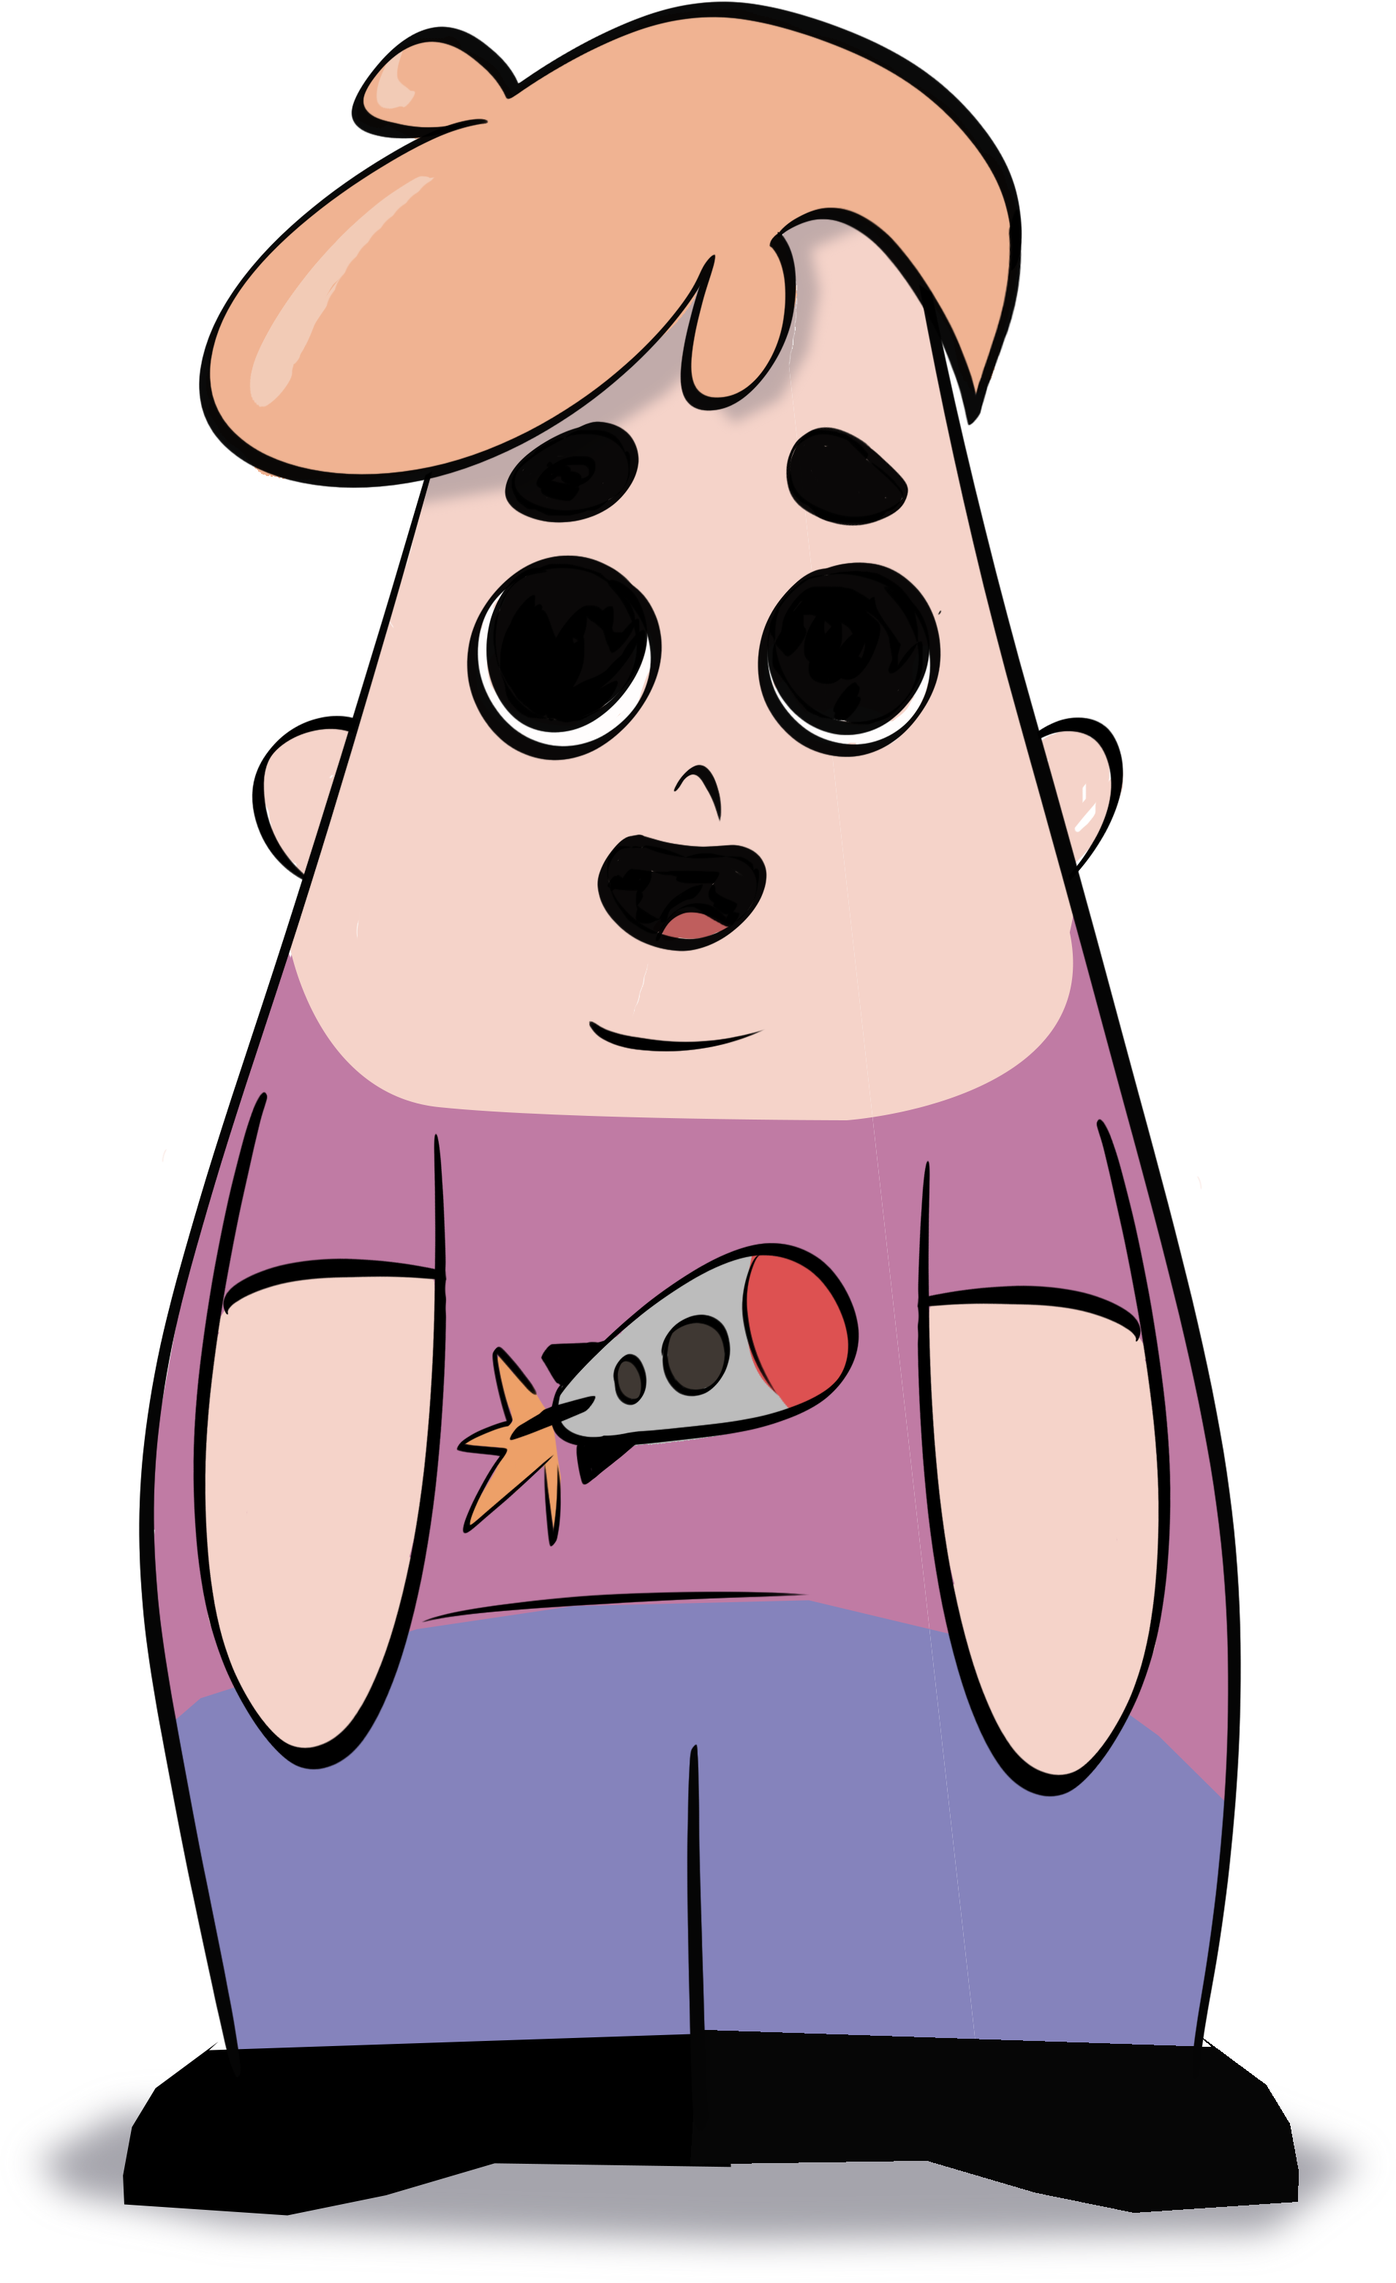
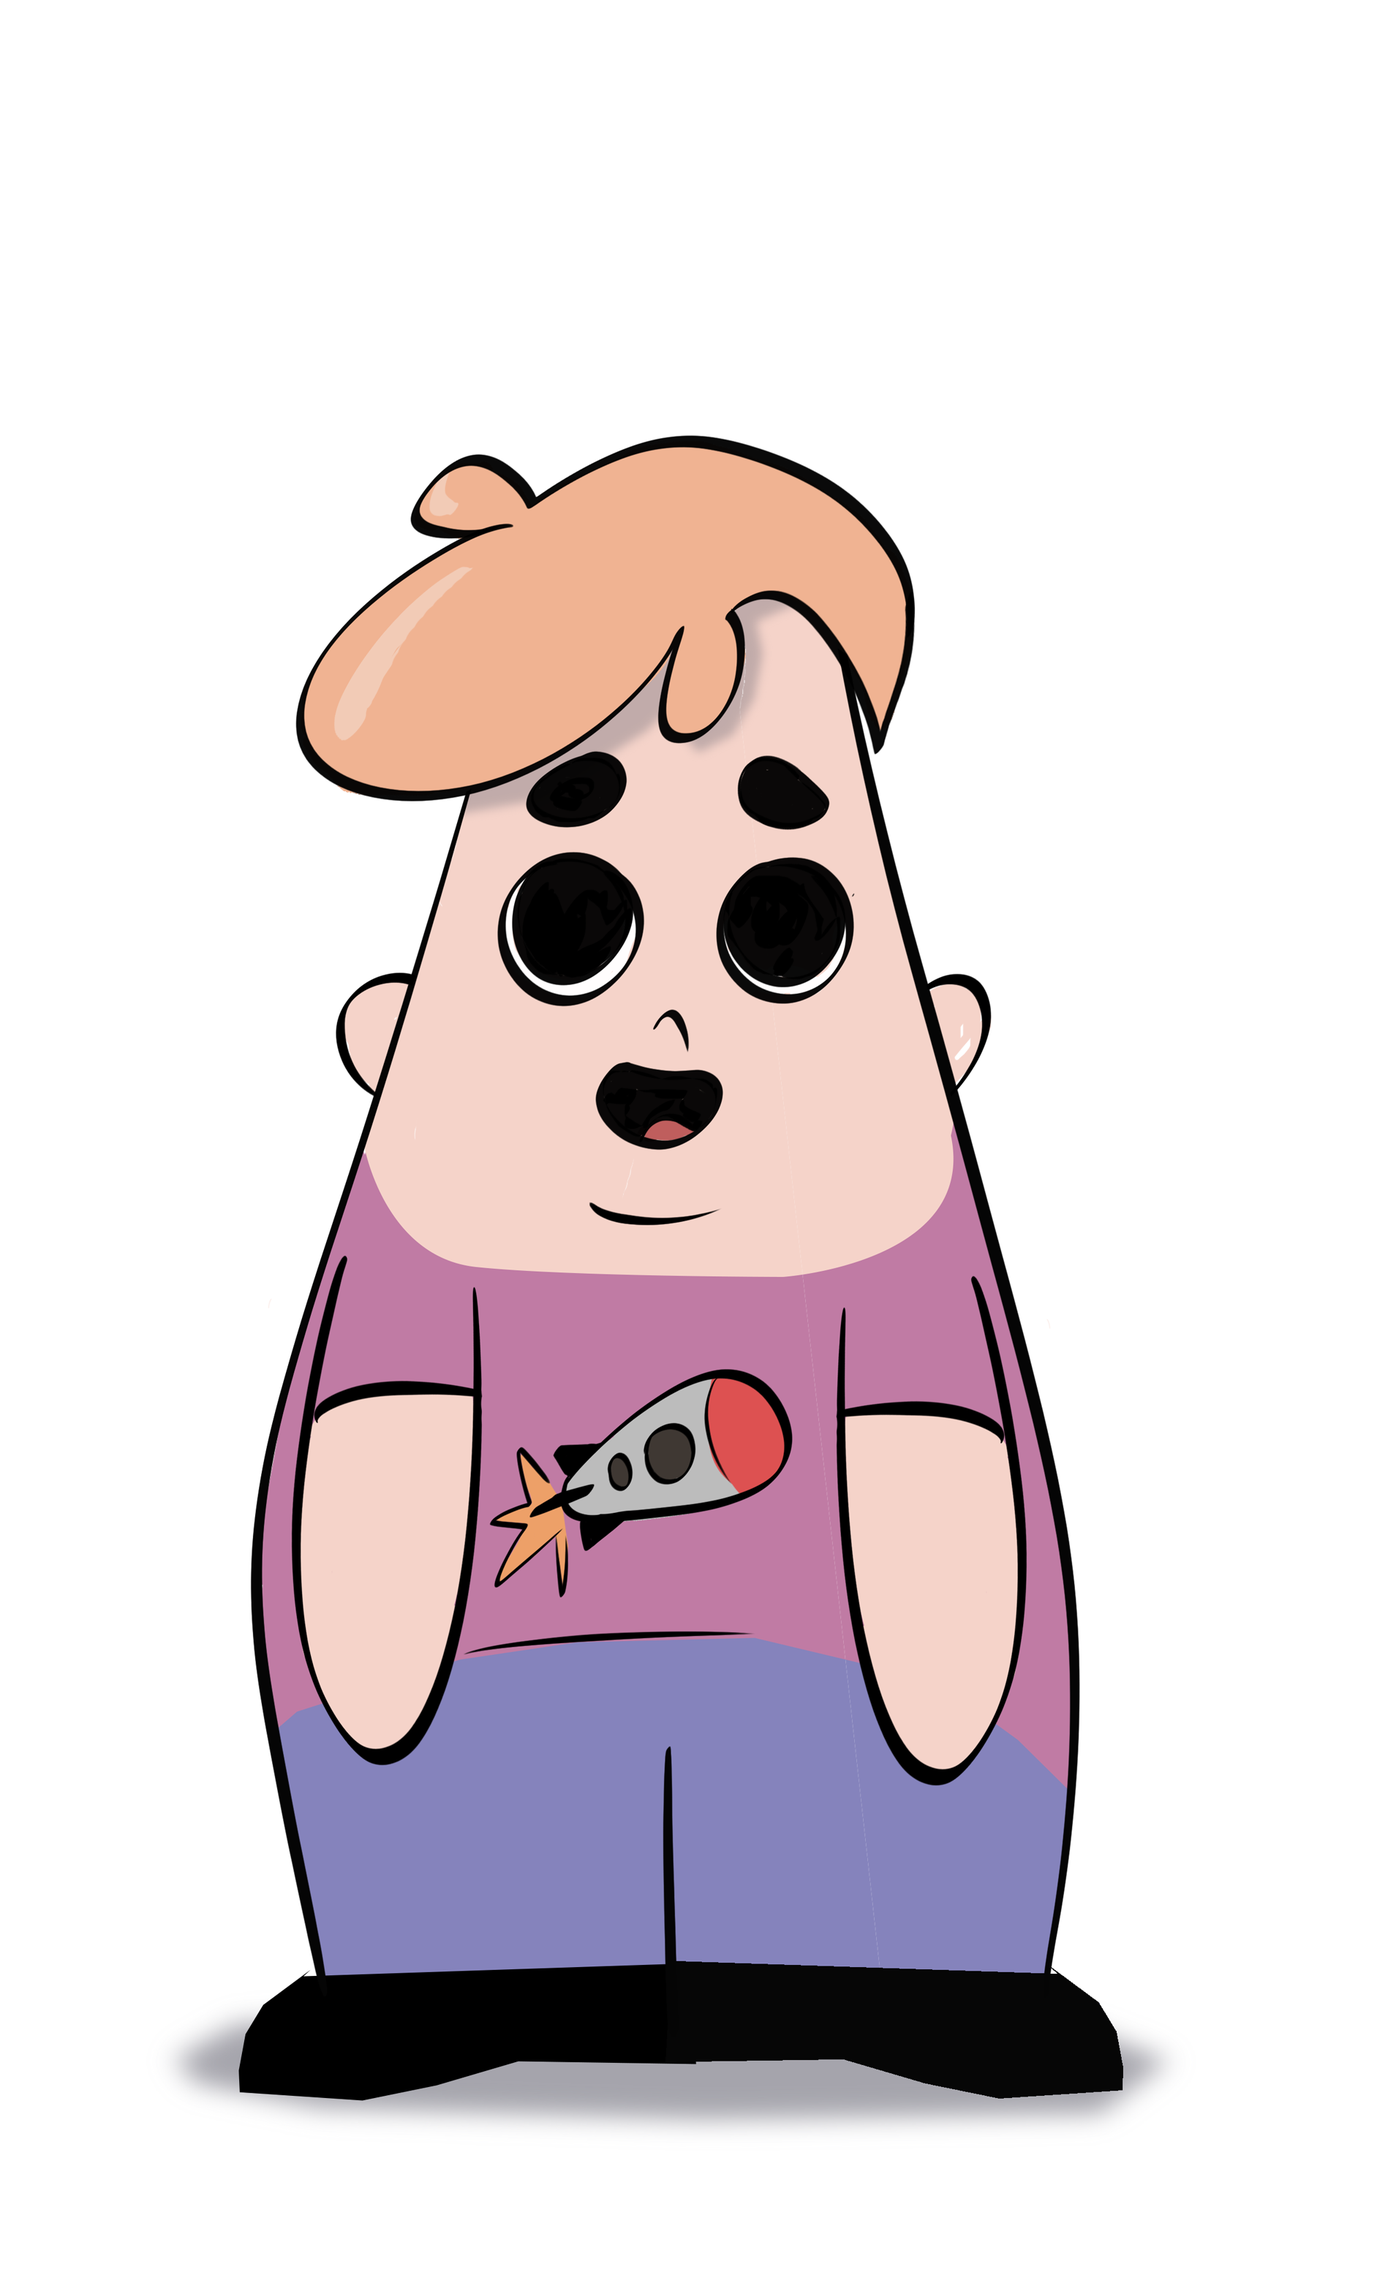
[TUTO]

diff --git a/electron/src/renderer/pages/Game.vue b/electron/src/renderer/pages/Game.vue
@@ -7,9 +7,9 @@
         <UI :money="money" :bar_value="points" bar_version="classic"></UI>
         <Character v-if="character" :candies="character.expected_bag" :next_clicked="next_clicked" :position="character.position" :step="character.current_dialog" :is_talking="character.is_talking" :show_bag="show_bag" :sprite="character.sprite"></Character>
         <Candy type="1" :is_available="available_candies[1]" :on_unlock="unlock_candy" price="5" :is_active="game_step == 'candy'" :on_clicked="candy_clicked"></Candy>
-        <Candy type="2" :is_available="available_candies[2]" :on_unlock="unlock_candy" price="15" :is_active="game_step == 'candy'" :on_clicked="candy_clicked"></Candy>
-        <Candy type="3" :is_available="available_candies[3]" :on_unlock="unlock_candy" price="50" :is_active="game_step == 'candy'" :on_clicked="candy_clicked"></Candy>
-        <Candy type="4" :is_available="available_candies[4]" :on_unlock="unlock_candy" price="100" :is_active="game_step == 'candy'" :on_clicked="candy_clicked"></Candy>
+        <Candy type="2" v-show="!tuto" :is_available="available_candies[2]" :on_unlock="unlock_candy" price="15" :is_active="game_step == 'candy'" :on_clicked="candy_clicked"></Candy>
+        <Candy type="3" v-show="!tuto" :is_available="available_candies[3]" :on_unlock="unlock_candy" price="50" :is_active="game_step == 'candy'" :on_clicked="candy_clicked"></Candy>
+        <Candy type="4" v-show="!tuto" :is_available="available_candies[4]" :on_unlock="unlock_candy" price="100" :is_active="game_step == 'candy'" :on_clicked="candy_clicked"></Candy>
         <div class="stand"></div>
         <Bag :is_showing="bag_showing" :on_clicked="bag_clicked"></Bag>
     </div>
@@ -31,8 +31,9 @@
     components: { UI, Character, Candy, Bag , Popup},
     data: function(){
         return {
+            tuto: true,
             bag_showing : false,
-            money: 500,
+            money: 0,
             points: 0,
             game_step: "walking",
             available_candies: {1:true},
@@ -42,18 +43,22 @@
                 dialogs: {
                     start: [
                         {
-                            text: "Salut, je m'appelle Nick, Nick Tahmer !",
+                            text: "Tiens, tu fais des bonbons, toi ?",
                             button: "Suivant"
                         },
                         {
-                            text: "Je veux %candies%, et vite.",
+                            text: "Fais goûter %candies% voir ?",
                             action: "show_bag"
                         }
                     ],
                     end: [
                         {
-                            text: "Efficace, merci !",
-                            button: "A bientôt"
+                            text: "Hmmm, mais c'est vachement bon ! T'en as d'autres ?",
+                            button: "Suivant"
+                        },
+                        {
+                            text: "Continue, tu vas faire fortune mec !",
+                            button: "Suivant"
                         },
                         {
                             text: "",
@@ -62,12 +67,12 @@
                     ],
                     bad: [
                         {
-                            text: "J'ai pas commandé ça, voleur !!",
+                            text: "Allez steuplait !",
                             button: "Suivant"
                         },
                         {
                             text: "",
-                            action: "finish_character"
+                            action: "reload_bag"
                         }
 					]
                 },
@@ -84,13 +89,25 @@
                 dialogs: {
                     start: [
                         {
-                            text: "Je veux %candies%.",
+                            text: "Oh, quel charmant petit stand ! Qu'est-ce que tu vends mon petit ?",
+                            button: "Suivant"
+                        },
+                        {
+                            text: "Oh, des bonbons ! Tu les fais toi-même ?",
+                            button: "Suivant"
+                        },
+                        {
+                            text: "C'est super ! Et bien ma foi je vais me laisser tenter !",
+                            button: "Suivant"
+                        },
+                        {
+                            text: "Et bien, je vais prendre %candies% s'il-te-plaît.",
                             action: "show_bag"
                         }
                     ],
                     end: [
                         {
-                            text: "Hmhmmh super, merci !",
+                            text: "Merci beaucoup mon petit, et bon courage !",
                             button: "Suivant"
                         },
                         {
@@ -100,7 +117,7 @@
                     ],
                     bad: [
                         {
-                            text: "Hmhmhm sale fils de mhhmhm !",
+                            text: "Oh, mais ce n'est pas ce que j'avais demandé !",
                             button: "Suivant"
                         },
                         {
@@ -108,10 +125,25 @@
                             action: "finish_character"
                         }
 					],
+                    empty: [
+                        {
+                            text: "Oh, tu es en rupture de stocks ? Ce n'est pas grave, je retenterai ma chance une autre fois !",
+                            button: "Suivant"
+                        },
+                        {
+                            text: "",
+                            action: "finish_character"
+                        }
+                    ],
 					wait: [
 						{
-							text: "J'en ai marre d'attendre, je me casse !"
-						}
+							text: "Eh bien ?",
+                            button: "Suivant"
+						},
+                        {
+                            text: "",
+                            action: "reload_bag"
+                        }
 					]
                 },
                 money: 10,
@@ -128,13 +160,21 @@
                     start: [
 
                         {
-                            text: "Je veux %candies%.",
+                            text: "Bonjour mon garçon ! Comment te portes-tu ?",
+                            button: "Suivant"
+                        },
+                        {
+                            text: "Tes bonbons étaient très bons, tu as du talent ! Je vais en reprendre !",
+                            button: "Suivant"
+                        },
+                        {
+                            text: " Et bien, je vais prendre %candies% s'il-te-plaît.",
                             action: "show_bag"
                         }
                     ],
                     end: [
                         {
-                            text: "Hmhmmh super, merci !",
+                            text: "Merci mon garçon, bonne journée !",
                             button: "Suivant"
                         },
                         {
@@ -144,7 +184,7 @@
                     ],
                     bad: [
                         {
-                            text: "Hmhmhm sale fils de mhhmhm !",
+                            text: "Mais, ce n'était pas ma commande !",
                             button: "Suivant"
                         },
                         {
@@ -154,8 +194,82 @@
 					],
 					wait: [
 						{
-							text: "J'en ai marre d'attendre, je me casse !"
-						}
+							text: "Que se passe-t-il ?",
+                            button: "Suivant"
+						},
+                        {
+                            text: "",
+                            action: "reload_bag"
+                        }
+					],
+					empty: [
+						{
+							text: "Plus de bonbons ? Ce sont des choses qui arrivent, tant pis ! ",
+                            button: "Suivant"
+						},
+                        {
+                            text: "",
+                            action: "finish_character"
+                        }
+					]
+                },
+                money: 10,
+                points: 20,
+                position: "start",
+                is_talking: false,
+                current_dialog: {},
+                current_dialog_index: 0,
+                current_dialog_type: "start"
+            },
+            {
+                sprite:  SpriteCharacter1,
+                dialogs: {
+                    start: [
+                        {
+                            text: "Salut, comment ça va ? J'ai vu que tu avais eu d'autres clients !",
+                            button: "Suivant"
+                        },
+                        {
+                            text: "Hmm, ce bonbon est bon, mais on risque de vite se lasser si tu n'en as qu'un ! ",
+                            button: "Suivant"
+                        },
+                        {
+                            text: "Tu devrais essayer d'en faire d'autres !",
+                            action: "finish_tuto",
+                            button: "Suivant"
+                        },
+                        {
+                            text: "Oh, j'ai hâte de goûter ça!",
+                            button: "Suivant"
+                        },
+                        {
+                            text: "",
+                            action: "finish_character"
+                        }
+                    ],
+                    end: [
+                        {
+                            text: "Hmmm, mais c'est vachement bon ! T'en as d'autres ?",
+                            button: "Suivant"
+                        },
+                        {
+                            text: "Continue, tu vas faire fortune mec !",
+                            button: "Suivant"
+                        },
+                        {
+                            text: "",
+                            action: "finish_character"
+                        }
+                    ],
+                    bad: [
+                        {
+                            text: "Allez steuplait !",
+                            button: "Suivant"
+                        },
+                        {
+                            text: "",
+                            action: "reload_bag"
+                        }
 					]
                 },
                 money: 10,
@@ -167,8 +281,8 @@
                 current_dialog_type: "start"
             }]},
             character: null,
-            character_index: 0,
-            day_index: 0,
+            character_index: 1,
+            day_index: 1,
 			wait_timer : null
         };
     },
@@ -180,6 +294,9 @@
         }.bind(this), 2000);
     },
     methods: {
+        finish_tuto: function(){
+            this.tuto = false;
+        },
         generate_bag: function(){
             let bag = {};
             bag[1] = Math.floor((Math.random()*3)+1);
@@ -223,6 +340,15 @@
 				}*/
 			}.bind(this), 2500);
         },
+        reload_bag: function(){
+            this.character.current_dialog_type = "start";
+            let bag_dialog = this.character.dialogs.start.forEach(function(d, index){
+                if(d.action == "show_bag") {
+                    this.character.current_dialog_index = index;
+                }
+            }.bind(this));
+			this.refresh_dialog();
+        },
       show_bag: function(){
           setTimeout(function(){
           	this.bag_showing = true;
@@ -233,17 +359,10 @@
 					  this.character.current_dialog_type = "wait";
 					  this.character.current_dialog_index = 0;
 					  this.refresh_dialog();
-						/*if(this.character.current_dialog.text != ""){
-							let speaking_sound = new Audio("static/speaking.mp3");
-							speaking_sound.play();
-						}*/
 						this.bag_showing = false;
-						setTimeout(function(){
-							this.finish_character();
-						}.bind(this),2000);
 				  }
 			  }.bind(this), 20000);
-            }.bind(this),2000);
+            }.bind(this),1500);
       },
       candy_clicked: function(type){
 		  	let candy_sound = new Audio("static/candy.mp3");
@@ -271,9 +390,17 @@
       bag_clicked: function(){
 		  this.game_step = "dialog";
 		  clearTimeout(this.wait_timer);
-		  console.log(JSON.stringify(this.character.expected_bag));
-		  console.log(JSON.stringify(this.current_bag));
-          if(JSON.stringify(this.character.expected_bag) == JSON.stringify(this.current_bag)){
+          if(this.character.dialogs.empty &&
+          this.current_bag[1] == 0 &&
+          this.current_bag[2] == 0 &&
+          this.current_bag[3] == 0 &&
+          this.current_bag[4] == 0 ){
+              alert("coucou");
+                this.character.current_dialog_type = "empty";
+			    this.character.current_dialog_index = 0;
+
+                this.refresh_dialog();
+          } else if(JSON.stringify(this.character.expected_bag) == JSON.stringify(this.current_bag)){
             this.money += this.character.money;
             this.points += this.character.points;
             this.character.current_dialog_type = "end";
@@ -289,9 +416,6 @@
 			wrong_sound.play();
             this.refresh_dialog();
 		  }
-		  if(this.character.current_dialog.text != ""){
-
-				}
           this.bag_showing = false;
 
       },

diff --git a/electron/src/renderer/components/Character.vue b/electron/src/renderer/components/Character.vue
@@ -89,21 +89,21 @@ import path from 'path';
     .character-container {
         position: absolute;
         bottom: 50px;
-        left: calc(50% - 200px);
-        height: 400px;
-        width: 400px;
+        left: calc(50% - 250px);
+        height: 500px;
+        width: 500px;
         transition-property: left;
         transition-timing-function: linear;
     }
 
 
     .character-container.start {
-        left: calc(0% - 400px);
+        left: calc(0% - 500px);
         transition-duration: 0s;
     }
 
     .character-container.middle {
-        left: calc(50% - 200px);
+        left: calc(50% - 250px);
         transition-duration: 2s;
     }
 
@@ -129,8 +129,8 @@ import path from 'path';
         background: white;
         width: 300px;
         height: 125px;
-        top: -150px;
-        right: -100px;
+        top: -50px;
+        right: -50px;
         border-radius: 25px;
         box-sizing: border-box;
         padding: 20px;

diff --git a/electron/src/renderer/components/Candy.vue b/electron/src/renderer/components/Candy.vue
@@ -1,7 +1,7 @@
 <template>
     <button class="candy" :class="{'animated': animated, 'is-active': is_active, 'is-available': is_available, 'type-1': type == '1', 'type-2': type == '2', 'type-3': type == '3', 'type-4': type == '4'}" @click="clicked">
         <div class="shadow-candy"></div>
-        <span v-show="!is_available">{{price}}</span>
+        <span v-show="!is_available">{{price}}$</span>
     </button>
 </template>
 

diff --git a/electron/src/main/index.js b/electron/src/main/index.js
@@ -18,9 +18,9 @@ function createWindow () {
    * Initial window options
    */
   mainWindow = new BrowserWindow({
-    height: 563,
+    height: 700,
     useContentSize: true,
-      width: 1000,
+      width: 1300,
       webPreferences: {
         webSecurity: false
       }
